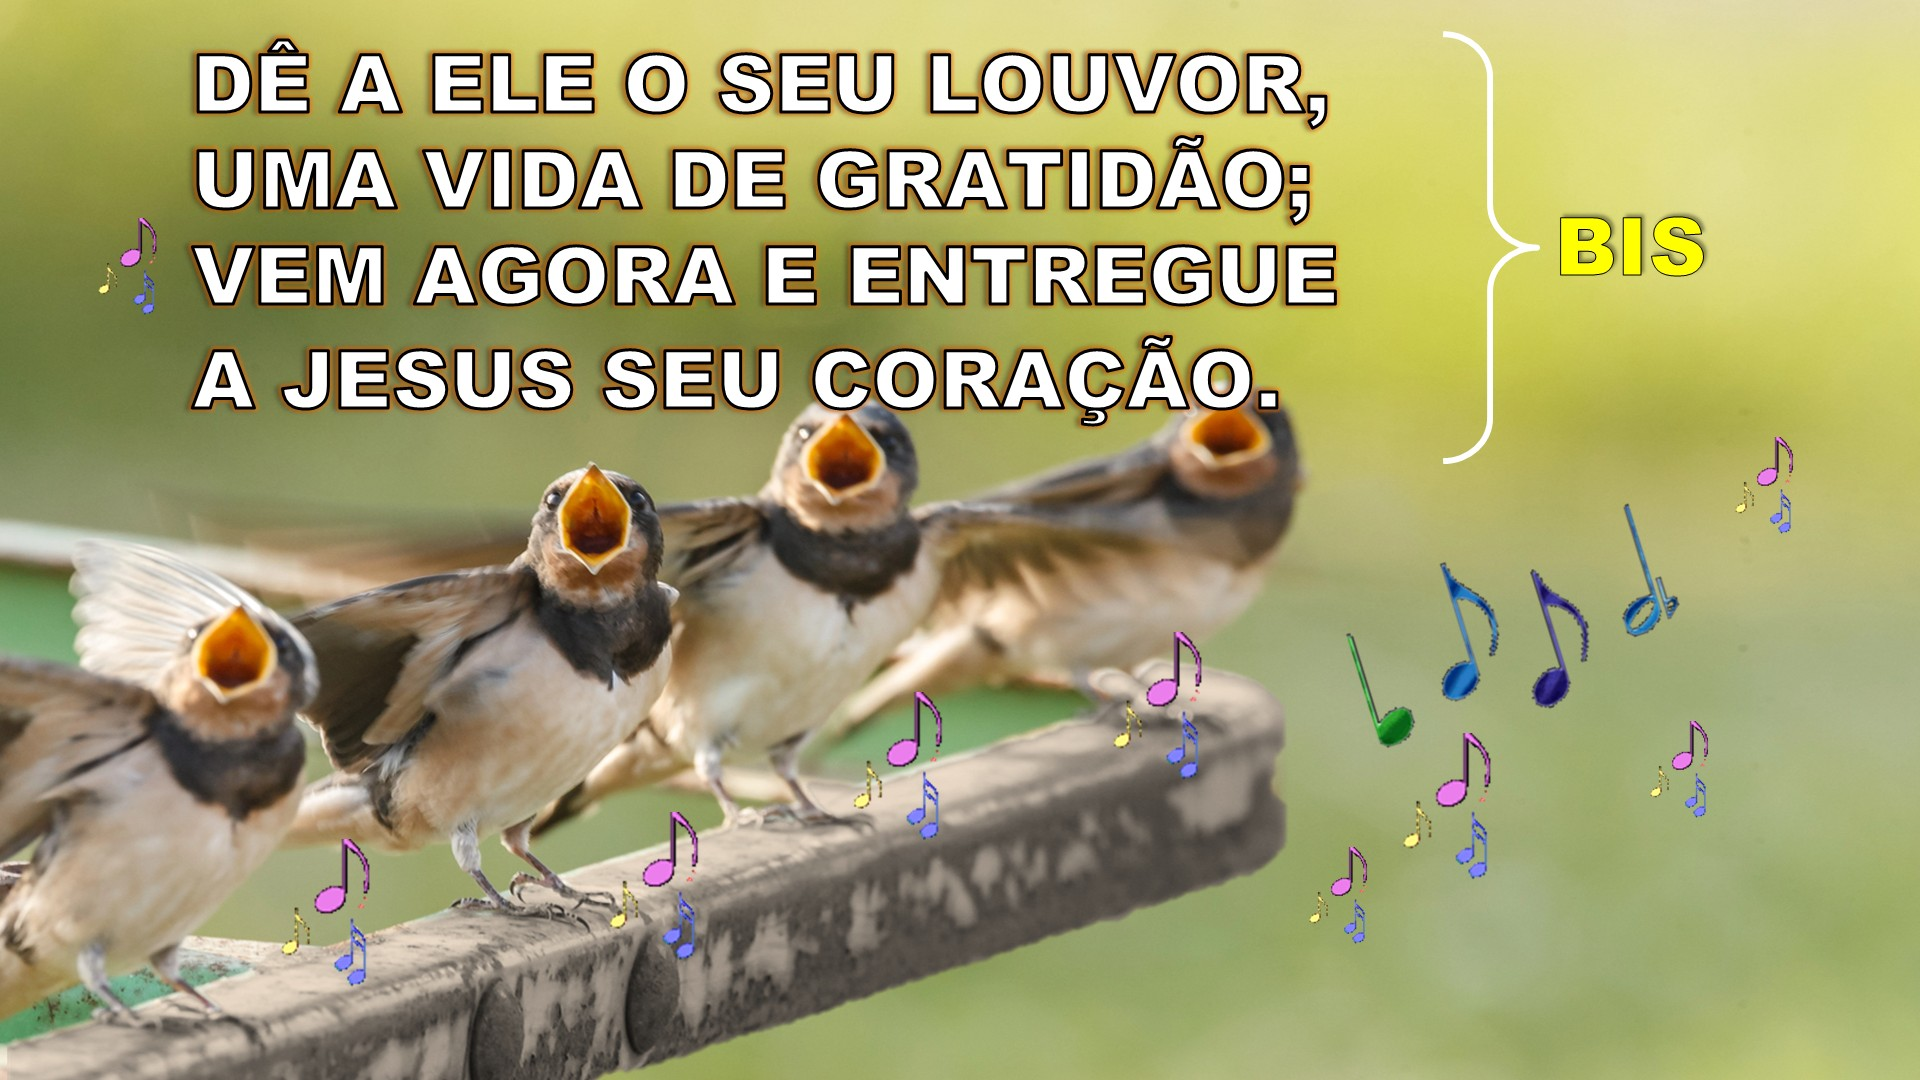
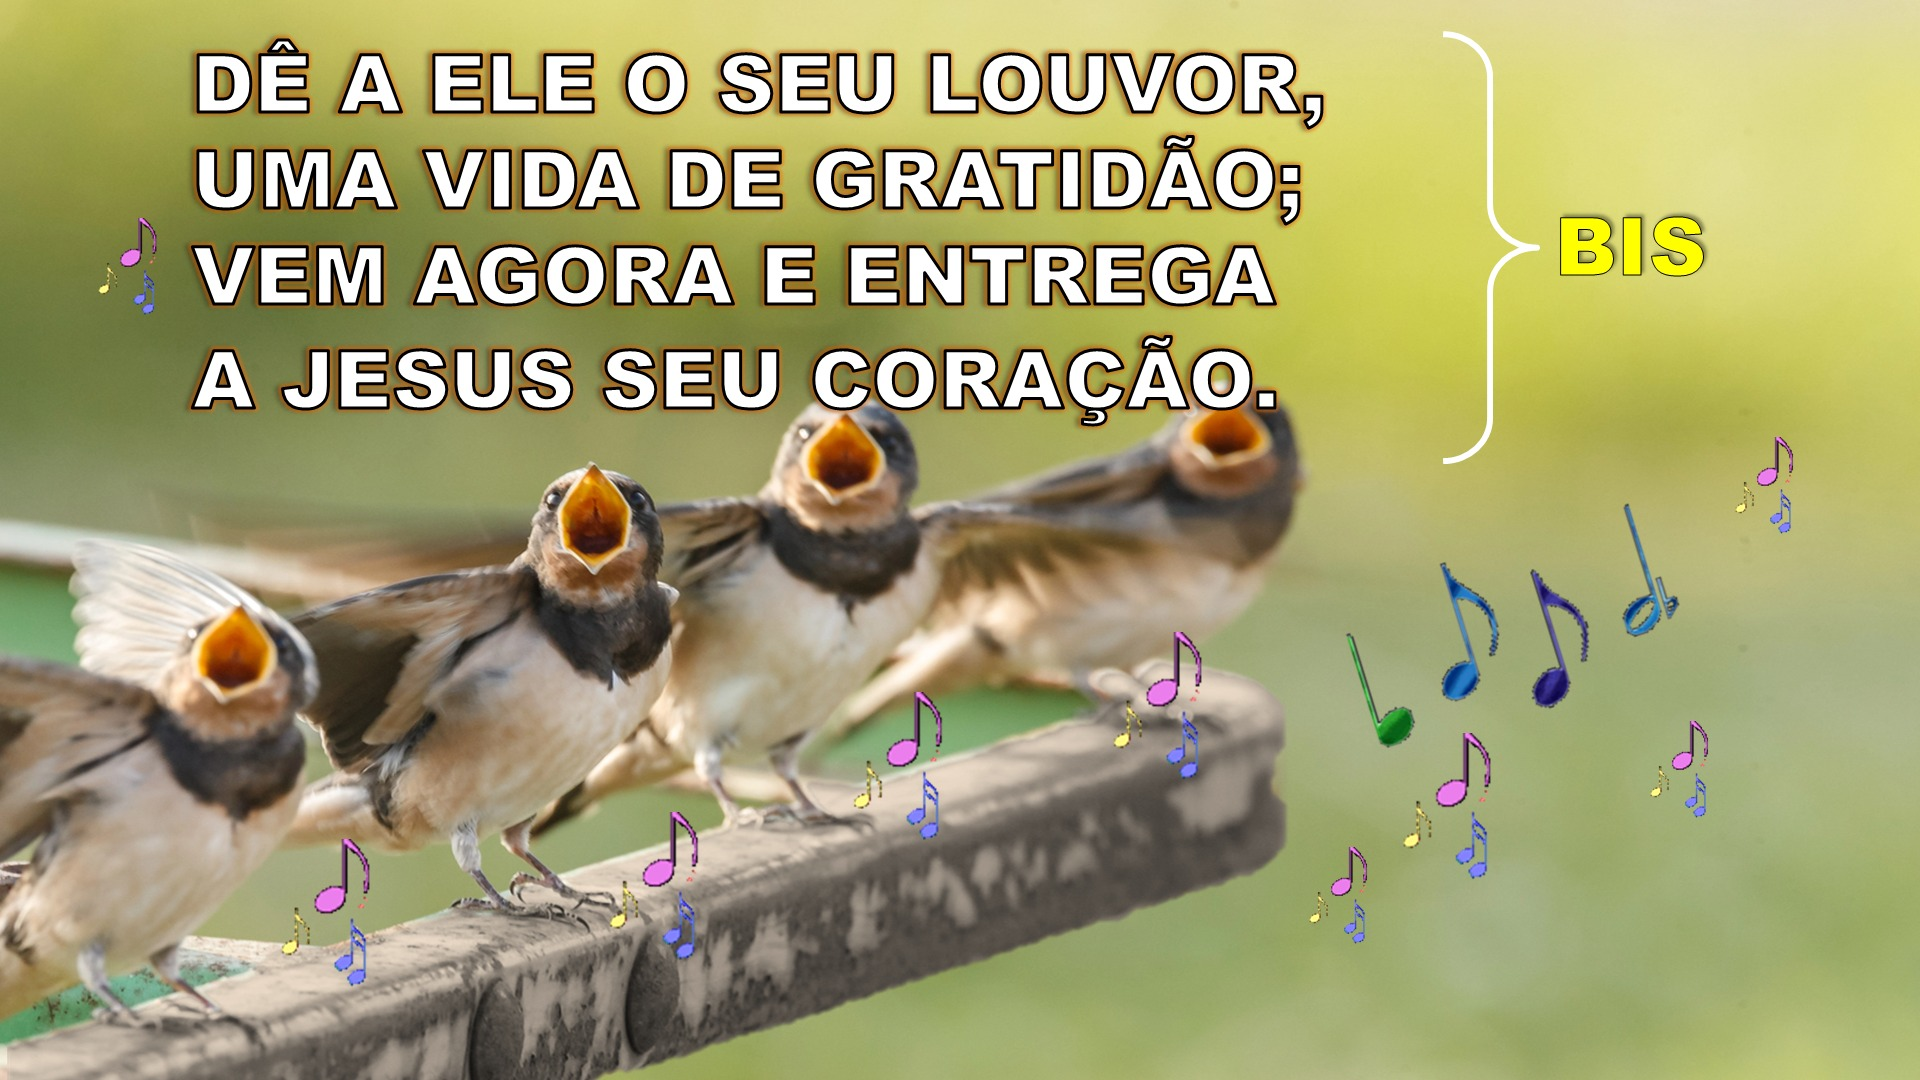
2.9.18: Modo Apresentador nas Apresentacoes (pedido da Cris) e o 69 do caderno (e ENTREGA)
Painel do operador igual ao do PowerPoint: atual, seguinte, cronometro, relogio, Slide X de N,
setas grandes, todos os slides, tela preta (B; a seta devolve o mesmo slide). Telao so com o slide.
69: telas animadas refeitas do CRI_003 com o texto do caderno; aula slides 11-12; letra no banco.
Prova em instalacao limpa: 26/26, 2/2 GIFs, 69 ENTREGA em banco/telas/aula, apresentador ok.

Claude-Session: https://claude.ai/code/session_01EGWCa4bTiWwT5hfRWtoCnP

Changed region(s): [[0.2812, 0.0306, 0.7188, 0.3056], [0.25, 0.2139, 0.4062, 0.275]]

diff --git a/app.js b/app.js
@@ -2010,7 +2010,7 @@ function projetarSelecaoAtual() {
   if (est.fila.length) { projetarItemLista(0); return; }
   toast('Escolha um louvor ou versículo para projetar.');
 }
-function preto() { est.live = { tipo: 'preto' }; projetar({ modo: 'preto', transicao: false }); }
+function preto() { est.live = { tipo: 'preto' }; projetar({ modo: 'preto', transicao: false }); aprAtualizar(); }
 function toggleFreeze() {
   if (!est.freeze) est.telaCongelada = est.ultimo;   // guarda o quadro que fica preso no telão
   est.freeze = !est.freeze;
@@ -2408,11 +2408,87 @@ function projetarSlide(i) {
   // tela pronta, igual à das CIAS: vai inteira e sem esticar. Apresentação da
   // Escola Bíblica em 4:3 estava sendo alargada até o 16:9 do telão.
   projetar({ modo: 'slide', src: SLIDES.lista[i], transicao: true, fade: ESMAECER });
-  renderSlides();
+  renderSlides(); aprAtualizar();
   const at = $('#sl-grade .sl-card.sel'); if (at) at.scrollIntoView({ block: 'nearest' });
 }
 function slideProximo() { if (SLIDES.lista && est.slidePos < SLIDES.lista.length - 1) projetarSlide(est.slidePos + 1); }
 function slideAnterior() { if (SLIDES.lista && est.slidePos > 0) projetarSlide(est.slidePos - 1); }
+
+// ================= MODO APRESENTADOR =================
+// Pedido da Cris (professora das crianças), 10/10/2026 21h15, com a foto do Modo
+// Apresentador do PowerPoint no Lenovo da igreja: "literalmente assim dentro do sistema".
+// O telão segue só com o slide; aqui o operador vê o atual (com o GIF andando), o
+// seguinte, o cronômetro, o relógio, "Slide X de N" e as setas grandes.
+const APR = { t0: 0, acum: 0, rodando: false, timer: null };
+function aprAberto() { const a = $('#apr'); return !!a && !a.classList.contains('oculto'); }
+function aprTempo() {
+  const ms = APR.acum + (APR.rodando ? Date.now() - APR.t0 : 0), s = Math.floor(ms / 1000);
+  $('#apr-tempo').textContent = Math.floor(s / 3600) + ':' + String(Math.floor(s / 60) % 60).padStart(2, '0') + ':' + String(s % 60).padStart(2, '0');
+  const d = new Date(); $('#apr-hora').textContent = String(d.getHours()).padStart(2, '0') + ':' + String(d.getMinutes()).padStart(2, '0');
+}
+function aprAtualizar() {
+  if (!aprAberto() || !SLIDES.lista) return;
+  const n = SLIDES.lista.length, i = Math.max(0, est.slidePos);
+  const at = $('#apr-atual'), sg = $('#apr-seg');
+  if (at.getAttribute('src') !== SLIDES.lista[i]) at.src = SLIDES.lista[i];
+  const tem = i + 1 < n;
+  sg.hidden = !tem; $('#apr-seg-fim').hidden = tem;
+  if (tem && sg.getAttribute('src') !== SLIDES.lista[i + 1]) sg.src = SLIDES.lista[i + 1];
+  $('#apr-conta').textContent = 'Slide ' + (i + 1) + ' de ' + n;
+  $('#apr-barra').style.width = (100 * (i + 1) / n) + '%';
+  $('#apr-ant').disabled = i <= 0; $('#apr-prox').disabled = i >= n - 1;
+  const preto = !!(est.live && est.live.tipo === 'preto');
+  $('#apr').classList.toggle('preto', preto); $('#apr-bt-preto').classList.toggle('on', preto);
+  $('#apr-grade').querySelectorAll('div').forEach((c, k) => c.classList.toggle('sel', k === i));
+}
+function abrirApresentador() {
+  if (!SLIDES.lista || !SLIDES.lista.length) return;
+  $('#apr-nome').textContent = SLIDES.nome || '';
+  $('#apr').classList.remove('oculto');
+  APR.acum = 0; APR.t0 = Date.now(); APR.rodando = true; $('#apr-pausa').textContent = '⏸';
+  clearInterval(APR.timer); APR.timer = setInterval(aprTempo, 500); aprTempo();
+  $('#apr-grade').hidden = true; $('#apr-grade').innerHTML = '';
+  // abre projetando: o slide em que o operador estava, ou o primeiro
+  // (slidePos -1 = acabou de abrir esta apresentacao: o telao ainda pode estar no slide de OUTRA)
+  if (est.slidePos < 0 || !(est.live && est.live.tipo === 'slide')) projetarSlide(Math.max(0, est.slidePos)); else aprAtualizar();
+}
+function fecharApresentador() { $('#apr').classList.add('oculto'); clearInterval(APR.timer); }
+// com a tela preta no ar, a seta devolve o slide (como no PowerPoint) em vez de ficar parada
+function aprPasso(d) {
+  if (est.live && est.live.tipo === 'preto') { projetarSlide(Math.max(0, est.slidePos)); return; }
+  if (d > 0) slideProximo(); else slideAnterior();
+}
+function aprPreto() {
+  if (est.live && est.live.tipo === 'preto') projetarSlide(Math.max(0, est.slidePos)); else preto();
+  aprAtualizar();
+}
+function aprTodos() {
+  const g = $('#apr-grade');
+  if (!g.hidden) { g.hidden = true; $('#apr-todos').classList.remove('on'); return; }
+  g.innerHTML = '';
+  SLIDES.lista.forEach((src, k) => {
+    const c = document.createElement('div');
+    c.innerHTML = '<img src="' + src + '" alt="" loading="lazy"><span>' + (k + 1) + '</span>';
+    c.onclick = () => projetarSlide(k);
+    g.appendChild(c);
+  });
+  g.hidden = false; $('#apr-todos').classList.add('on'); aprAtualizar();
+}
+function ligarApresentador() {
+  if (!$('#apr')) return;
+  $('#ap-apresentador').onclick = abrirApresentador;
+  $('#apr-fim').onclick = () => { fecharApresentador(); descanso(); };
+  $('#apr-ant').onclick = () => aprPasso(-1);
+  $('#apr-prox').onclick = () => aprPasso(+1);
+  $('#apr-bt-preto').onclick = aprPreto;
+  $('#apr-todos').onclick = aprTodos;
+  $('#apr-pausa').onclick = () => {
+    if (APR.rodando) { APR.acum += Date.now() - APR.t0; APR.rodando = false; $('#apr-pausa').textContent = '▶'; }
+    else { APR.t0 = Date.now(); APR.rodando = true; $('#apr-pausa').textContent = '⏸'; }
+    aprTempo();
+  };
+  $('#apr-zera').onclick = () => { APR.acum = 0; APR.t0 = Date.now(); aprTempo(); };
+}
 
 // ================= MENU ☰ CONFIGURAÇÕES =================
 const DIAS_NOME = ['Domingo', 'Segunda', 'Terça', 'Quarta', 'Quinta', 'Sexta', 'Sábado'];
@@ -3041,7 +3117,7 @@ function ligarEventos() {
     if (emEspera) projetarSelecaoAtual();
     else { descanso(); toast('Tela de espera no telão.'); }
   };
-  $('#btn-proximo').onclick = proximo; $('#btn-anterior').onclick = anterior;
+  $('#btn-proximo').onclick = proximo; $('#btn-anterior').onclick = anterior; ligarApresentador();
   $('#btn-menor').onclick = () => ajustarTam(-0.3); $('#btn-maior').onclick = () => ajustarTam(+0.3);
   $('#tam-label').onclick = tamPadrao;                      // clicar no rótulo volta ao padrão
   $('#btn-congelar').onclick = toggleFreeze;   // "Parar de projetar" já faz o papel da espera
@@ -3099,6 +3175,16 @@ function ligarEventos() {
     // com uma janela aberta (menu, boas-vindas, confirmação) as teclas NÃO mexem no telão
     // a cifra aberta também segura as teclas: ali a seta rola a folha. Se ela
     // passasse adiante, o telão trocaria de slide com o operador olhando a cifra.
+    // o Modo Apresentador segura as teclas do PowerPoint: ←/→/espaço/PgUp/PgDn passam,
+    // B é tela preta, Esc fecha o painel (o telão continua no slide)
+    if (aprAberto()) {
+      const k = e.key;
+      if (k === 'Escape') { e.preventDefault(); fecharApresentador(); }
+      else if (k === 'ArrowRight' || k === ' ' || k === 'PageDown' || k === 'Enter') { e.preventDefault(); aprPasso(+1); }
+      else if (k === 'ArrowLeft' || k === 'PageUp' || k === 'Backspace') { e.preventDefault(); aprPasso(-1); }
+      else if (k.toLowerCase() === 'b') { e.preventDefault(); aprPreto(); }
+      return;
+    }
     const cif = $('#cifra-ov');
     if (cif && !cif.classList.contains('oculto')) {
       if (e.key === 'Escape') { fecharCifra(); return; }

diff --git a/app.css b/app.css
@@ -642,3 +642,43 @@ input,textarea,.item-trecho small,.cifra-folha,#cifra-folha pre{
 .sis-assina b{color:#a9bcd8;font-weight:600}
 /* negrito DENTRO do texto miúdo fica na linha (o .reset-row b é bloco: quebrava "Animação" e sobrava um ponto solto) */
 .reset-row small b{display:inline;font-size:inherit;margin:0}
+
+/* ===== MODO APRESENTADOR (pedido da Cris, 10/10/2026): a tela do operador igual a do PowerPoint ===== */
+.apr-abrir{margin-left:auto;background:var(--ouro);border-color:var(--ouro);color:#1a1a1a;font-weight:700}
+.apr{position:fixed;inset:0;z-index:900;background:#111;color:#eee;display:flex;flex-direction:column;font-size:14px}
+.apr.oculto{display:none}
+.apr-topo{display:flex;align-items:center;gap:18px;padding:8px 16px;background:#1b1b1b;border-bottom:1px solid #333}
+.apr-fim{background:#2a2a2a;border:1px solid #444;border-radius:6px;padding:7px 14px;font-weight:600}
+.apr-fim:hover{background:var(--vermelho)}
+.apr-nome{flex:1;opacity:.7;white-space:nowrap;overflow:hidden;text-overflow:ellipsis}
+.apr-crono{display:flex;align-items:center;gap:6px}
+.apr-crono b{font-size:24px;font-variant-numeric:tabular-nums;min-width:96px;text-align:right}
+.apr-crono button{background:#2a2a2a;border-radius:6px;width:34px;height:30px;font-size:15px}
+.apr-crono button:hover{background:#3a3a3a}
+.apr-hora{font-size:24px;font-variant-numeric:tabular-nums;padding-left:14px;border-left:1px solid #333}
+.apr-meio{flex:1;display:flex;gap:16px;padding:14px 16px;min-height:0}
+.apr-esq{flex:1.9;display:flex;flex-direction:column;gap:10px;min-width:0}
+.apr-dir{flex:1;display:flex;flex-direction:column;gap:8px;min-width:0}
+.apr-atual{position:relative;flex:1;min-height:0;display:flex;align-items:center;justify-content:center}
+.apr-atual img{border:2px solid #333;background:#000}
+.apr-atual img,.apr-seg img{max-width:100%;max-height:100%;object-fit:contain;display:block}
+.apr-preto{position:absolute;inset:0;display:none;align-items:center;justify-content:center;background:rgba(0,0,0,.82);color:var(--ouro);font-weight:700;font-size:18px}
+.apr.preto .apr-preto{display:flex}
+.apr-nav{display:flex;align-items:center;gap:14px}
+.apr-seta{width:84px;height:56px;border-radius:10px;background:#2a2a2a;font-size:26px}
+.apr-seta:hover{background:var(--azul2)}
+.apr-seta:disabled{opacity:.3;cursor:default}
+.apr-conta{flex:1;text-align:center;font-size:17px}
+.apr-barra{height:6px;background:#333;border-radius:3px;margin-top:6px;overflow:hidden}
+.apr-barra i{display:block;height:100%;width:0;background:var(--ouro);transition:width .2s}
+.apr-ferr{display:flex;gap:10px;justify-content:center}
+.apr-ferr button{background:#2a2a2a;border:1px solid #3a3a3a;border-radius:8px;padding:8px 16px}
+.apr-ferr button:hover,.apr-ferr button.on{background:var(--hover)}
+.apr-rot{opacity:.75;font-size:15px}
+.apr-seg{aspect-ratio:16/9;background:#000;display:flex;align-items:center;justify-content:center;border:1px solid #333;border-radius:4px;color:#888}
+.apr-todos{flex:1;overflow:auto;display:grid;grid-template-columns:repeat(auto-fill,minmax(110px,1fr));gap:8px;align-content:start}
+.apr-todos div{position:relative;cursor:pointer;border:2px solid transparent;border-radius:4px;background:#000}
+.apr-todos div.sel{border-color:var(--ouro)}
+.apr-todos img{width:100%;aspect-ratio:16/9;object-fit:contain;display:block}
+.apr-todos span{position:absolute;left:4px;bottom:2px;font-size:11px;text-shadow:0 0 3px #000}
+@media (max-width:760px){.apr-meio{flex-direction:column}.apr-hora,.apr-nome{display:none}}

diff --git a/index.html b/index.html
@@ -5,7 +5,7 @@
 <link rel="apple-touch-icon" href="sistema.png">
 <link rel="manifest" href="manifest.json">
 <meta name="theme-color" content="#0f2f5e">
-<link rel="stylesheet" href="app.css?v=48">
+<link rel="stylesheet" href="app.css?v=49">
 </head><body>
 <div id="app">
   <header>
@@ -130,6 +130,7 @@
           <div class="row ap-topo" id="ap-topo" hidden>
             <button class="fcat" id="ap-voltar">‹ Todas as apresentações</button>
             <b id="ap-nome"></b>
+            <button class="fcat apr-abrir" id="ap-apresentador" title="Tela do operador igual ao Modo Apresentador do PowerPoint">▶ Modo apresentador</button>
           </div>
           <span class="sl-status" id="sl-status"></span>
           <div class="grid-fundos" id="ap-grade"></div>
@@ -424,6 +425,37 @@
     </aside>
   </div>
 </div>
+<!-- MODO APRESENTADOR (pedido da Cris, 10/10/2026 21h15: "literalmente assim dentro do sistema",
+     a foto do Modo Apresentador do PowerPoint). O telão continua só com o slide; isto é a tela do operador. -->
+<div id="apr" class="apr oculto">
+  <div class="apr-topo">
+    <button class="apr-fim" id="apr-fim">Terminar apresentação</button>
+    <span class="apr-nome" id="apr-nome"></span>
+    <span class="apr-crono"><b id="apr-tempo">0:00:00</b>
+      <button id="apr-pausa" title="Pausar / continuar o cronômetro">⏸</button>
+      <button id="apr-zera" title="Reiniciar o cronômetro">↺</button></span>
+    <span class="apr-hora" id="apr-hora">--:--</span>
+  </div>
+  <div class="apr-meio">
+    <div class="apr-esq">
+      <div class="apr-atual"><img id="apr-atual" alt=""><div class="apr-preto" id="apr-preto-aviso">TELA PRETA — aperte → ou B para voltar</div></div>
+      <div class="apr-nav">
+        <button class="apr-seta" id="apr-ant" title="Slide anterior (←)">◀</button>
+        <div class="apr-conta"><span id="apr-conta">Slide 1 de 1</span><div class="apr-barra"><i id="apr-barra"></i></div></div>
+        <button class="apr-seta" id="apr-prox" title="Próximo slide (→)">▶</button>
+      </div>
+      <div class="apr-ferr">
+        <button id="apr-todos" title="Ver todos os slides">▦ Todos os slides</button>
+        <button id="apr-bt-preto" title="Tela preta no telão (B)">■ Tela preta</button>
+      </div>
+    </div>
+    <div class="apr-dir">
+      <div class="apr-rot">Slide seguinte</div>
+      <div class="apr-seg"><img id="apr-seg" alt=""><span id="apr-seg-fim" hidden>Fim da apresentação</span></div>
+      <div class="apr-todos" id="apr-grade" hidden></div>
+    </div>
+  </div>
+</div>
 <div id="toast"></div>
 
 <!-- ================= BOAS-VINDAS / APRESENTAÇÃO ================= -->
@@ -450,5 +482,5 @@
 <!-- sugestões de louvor por versículo: tabela pronta, o Sistema só consulta -->
 <script src="dados/sugestoes.js"></script>
 <script src="icones.js?v=48"></script>
-<script src="app.js?v=48"></script>
+<script src="app.js?v=49"></script>
 </body></html>

diff --git a/sistema.py b/sistema.py
@@ -10,7 +10,7 @@ import http.server, socketserver, threading, webbrowser, subprocess, os, sys, js
 
 
 
-VERSAO = "2.9.17"
+VERSAO = "2.9.18"
 
 PORTA = 8765
 
